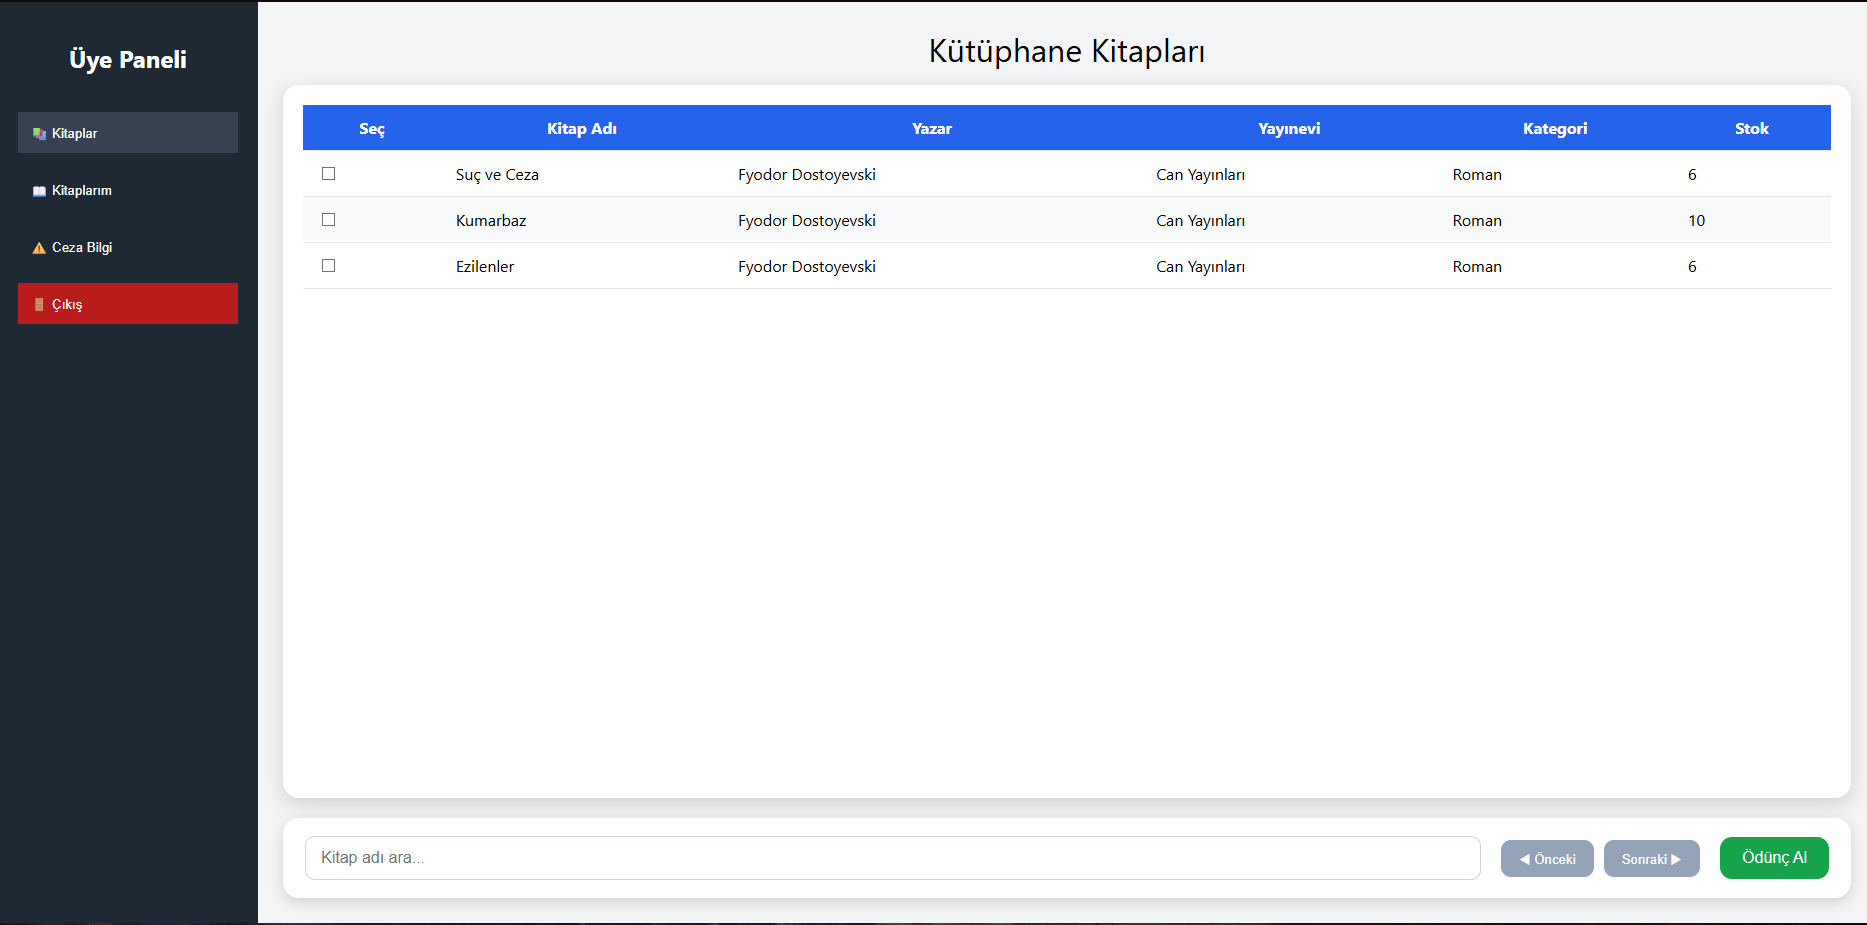
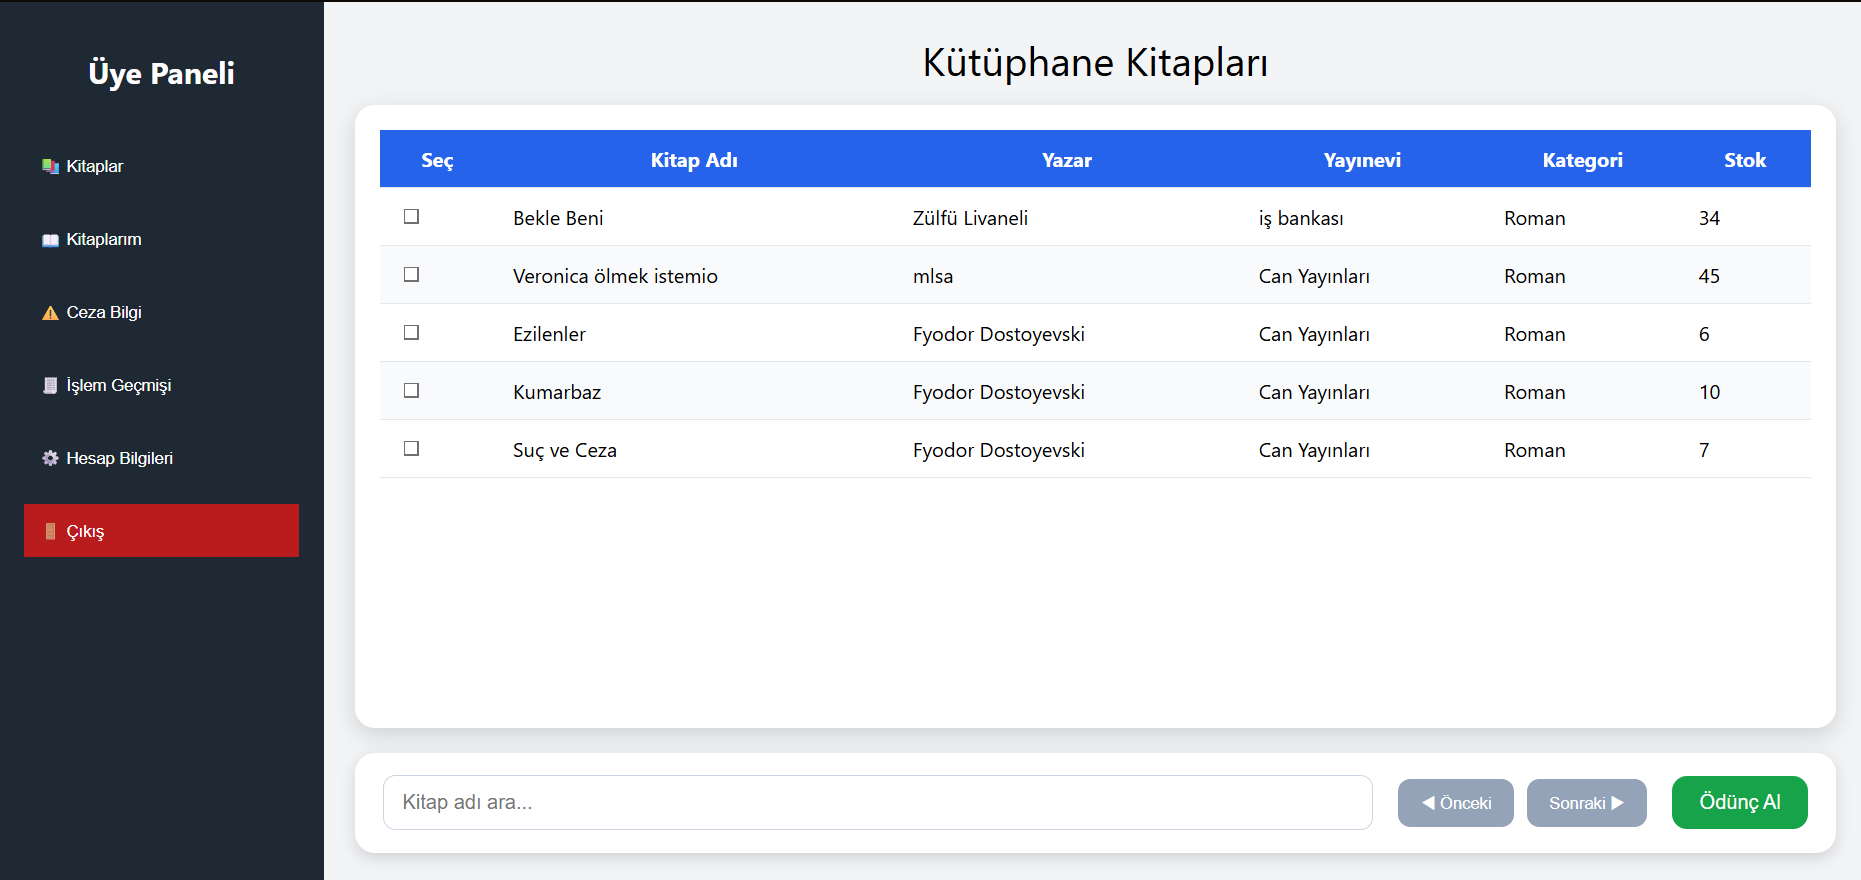
fix:Resimler güncellendi!

diff --git a/ReadMe.md b/ReadMe.md
@@ -1,9 +1,12 @@
 # <center>Kütüphane Ödevi(Yapım Aşamasında)</center>
 
-## Yenilikler (15.12.25) (Büyük Güncelleme)
-- Yeni bi tasarıma geçildi. Sol tarafta panel sağ tarafta sayfa gözükecek bi tasarım yaptım.
-- Üye tarafında ana sayfa, kitaplar da ödünç alma işlevi kitaplarım adında kullanıma hazır bi yer yapıldı. Ödünç alınan kitapları detaylarını ve iade edebiliyorsunuz.
-- Admin tarafında epey yenilikler var. Ana sayfa, kitap, kategori, yazar ve yayınevi işlemleri yapıldı. Kitap, kategori, yazar ve yayınevleri eklenebilir, düzenlenebilir ve silinebilir. Tabi silinmeden önce ödünç alınmışsa silmiyor.
+## Yenilikler (21.12.25)
+- Üye tarafında Hesap bilgisi ve işlem geçmişi eklendi!
+- Admin tarafında ise sadece Hesap Bilgisi eklendi. Log tarafı yapmadan önce commit atmak istedim.
+- Hesap bilgisinde üye bilgilerini değiştirebilir, şifresini değiştirebilir (Eski şifre soruyor ilk). Hesabını silebilir. Eğer iade edilmemiş kitap varsa hesap silinmiyor ve uyarı geliyor kitap iadesi için.
+- İşlem geçmişinde kullanıcının önceden yaptığı işlemler loglar halinde kullanıcı gözükür. Kullanıcı hesabını silse bile verileri tabloda verilerde sorun yaşamadan hala tutulur.
+- Artık frontend hashlenip backendte şifreleniyor.
+- Postman de kullanıcı ve admin girişinde çerezlerde token gözükmeme sorunu çözüldü.
 
 
 ## İçindekiler
@@ -36,6 +39,14 @@
 ### Kitaplarım Sayfası:
 ![kitaplarım](Resimler/kitaplarım.png)
 - Ödünç alınan kitapları gösterir. Kitaplar hakkında bilgileri görebilir ve iade edebilirsiniz. İade edildiğinde stokta kitap sayısı artar.
+
+### İşlem Geçmişi Sayfası:
+![işlem-geçmişi](Resimler/işlem%20geçmisi.png)
+- Kullanıcı işlem geçmişi sayfasından önceden yapmış olduğu işlemleri (loglara) bakabilir. Loglar apayrı bi tabloda tutulur. Kullanıcı hesabını silse bile log tablosunda veri kaybı olmadan bilgiler kalır.
+
+### Hesap Bilgisi Sayfası:
+![hesap-bilgisi](Resimler/hesap%20bilgileri.png)
+- Kullanıcı kendi hesap bilgilerini görebilir, kullanıcı ismini, emailini ve şifresini değiştirebilir. Ve hatta hesabı silebilir. Eğer hesapta iade edilmemiş kitap varsa önce iadesi istenir. Ceza sistemi entegre edince ceza varsa da izin vermeyecek. İsim değişikliğinde logdaki isim de otomatik değişir. Ve loga bilgi gider.
 
 ### Admin Panel Sayfası:
 ![admin-panel](Resimler/admin%20panel.png)
@@ -95,4 +106,4 @@
 
 ## Kapanış
 
-- Üye sayfasına üye bilgilerini değiştirme, üye işlem geçmişi, admin sayfasına ise admin bilgileri değiştirme, genel log, mail gönderme eklemeyi düşünüyorum. Ama bugün değil. Bi sonraki commit dediklerimi bir çoğunu yapmış olurum.
+- Bi sonraki committe admin log sayfası, admin mail gönderme ve ceza sayfası yapılacaktır. Son commitlere yaklaştık sayılır.
